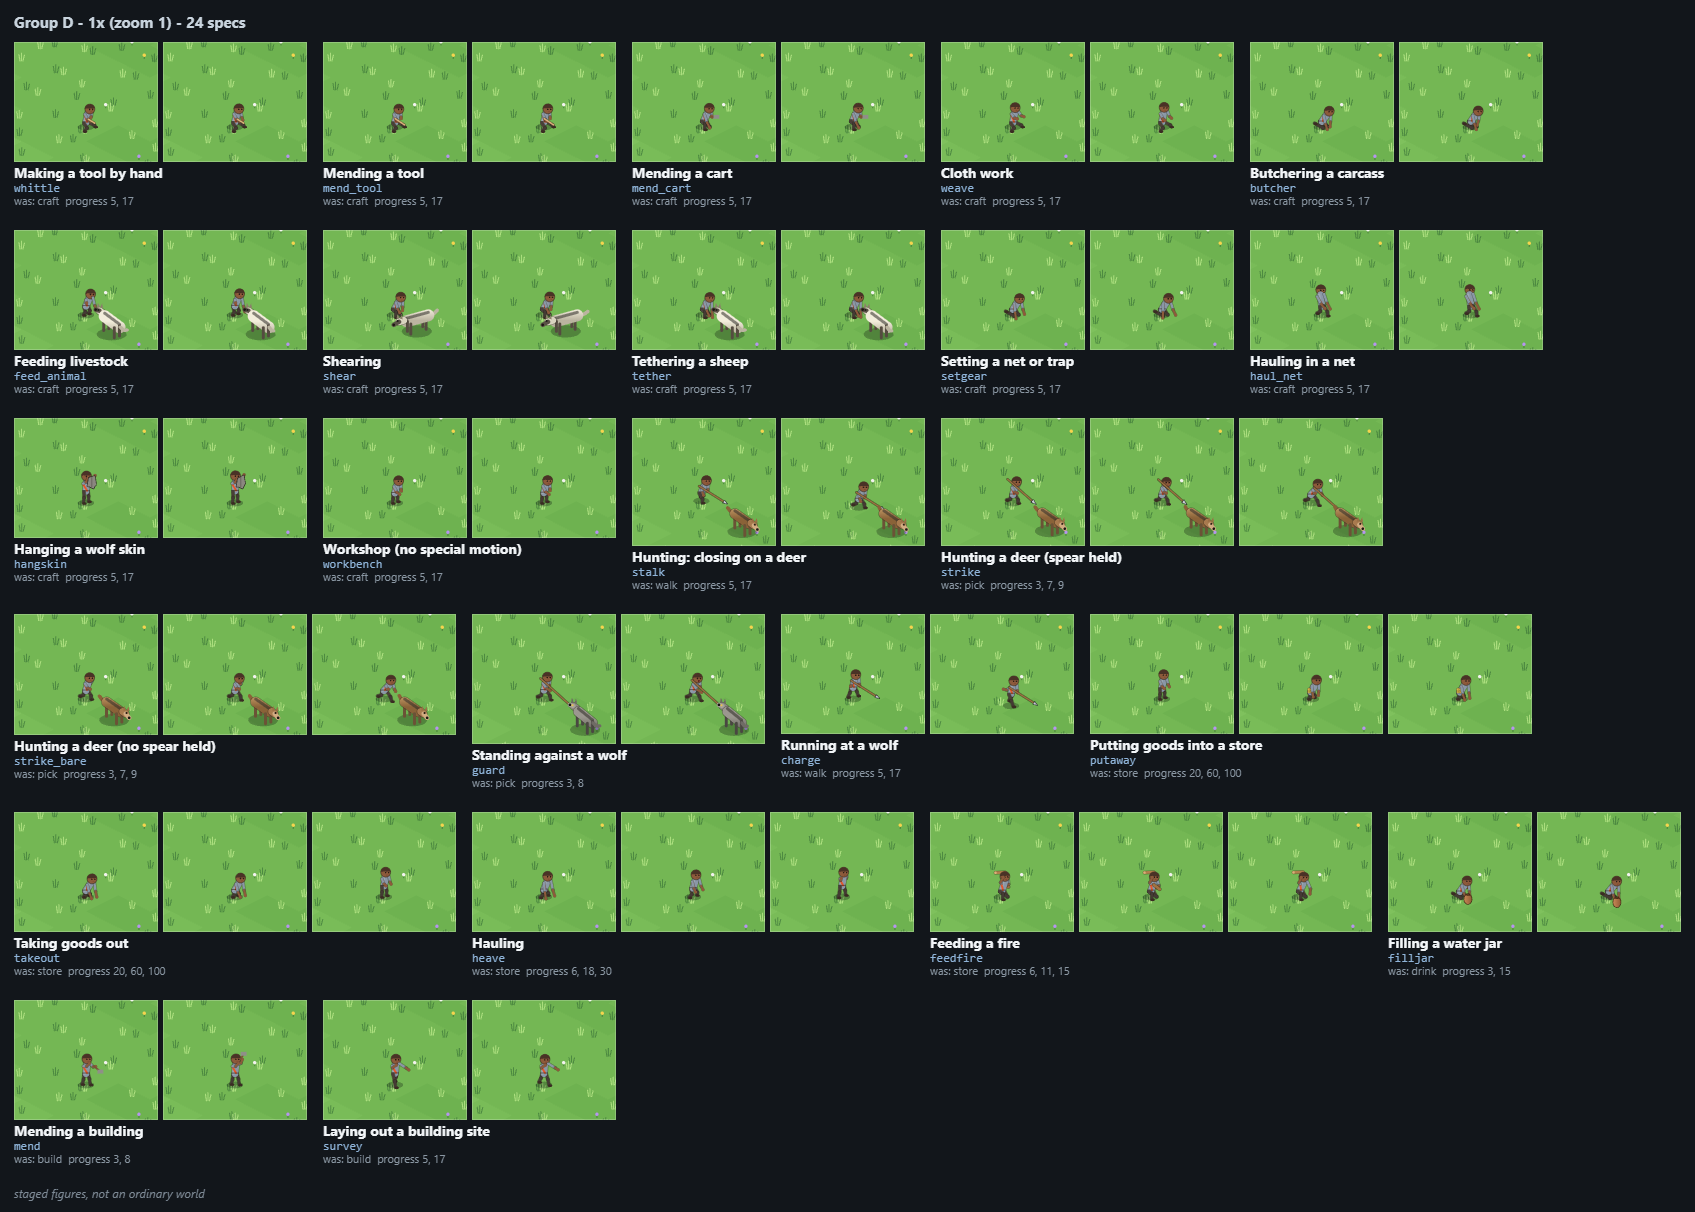
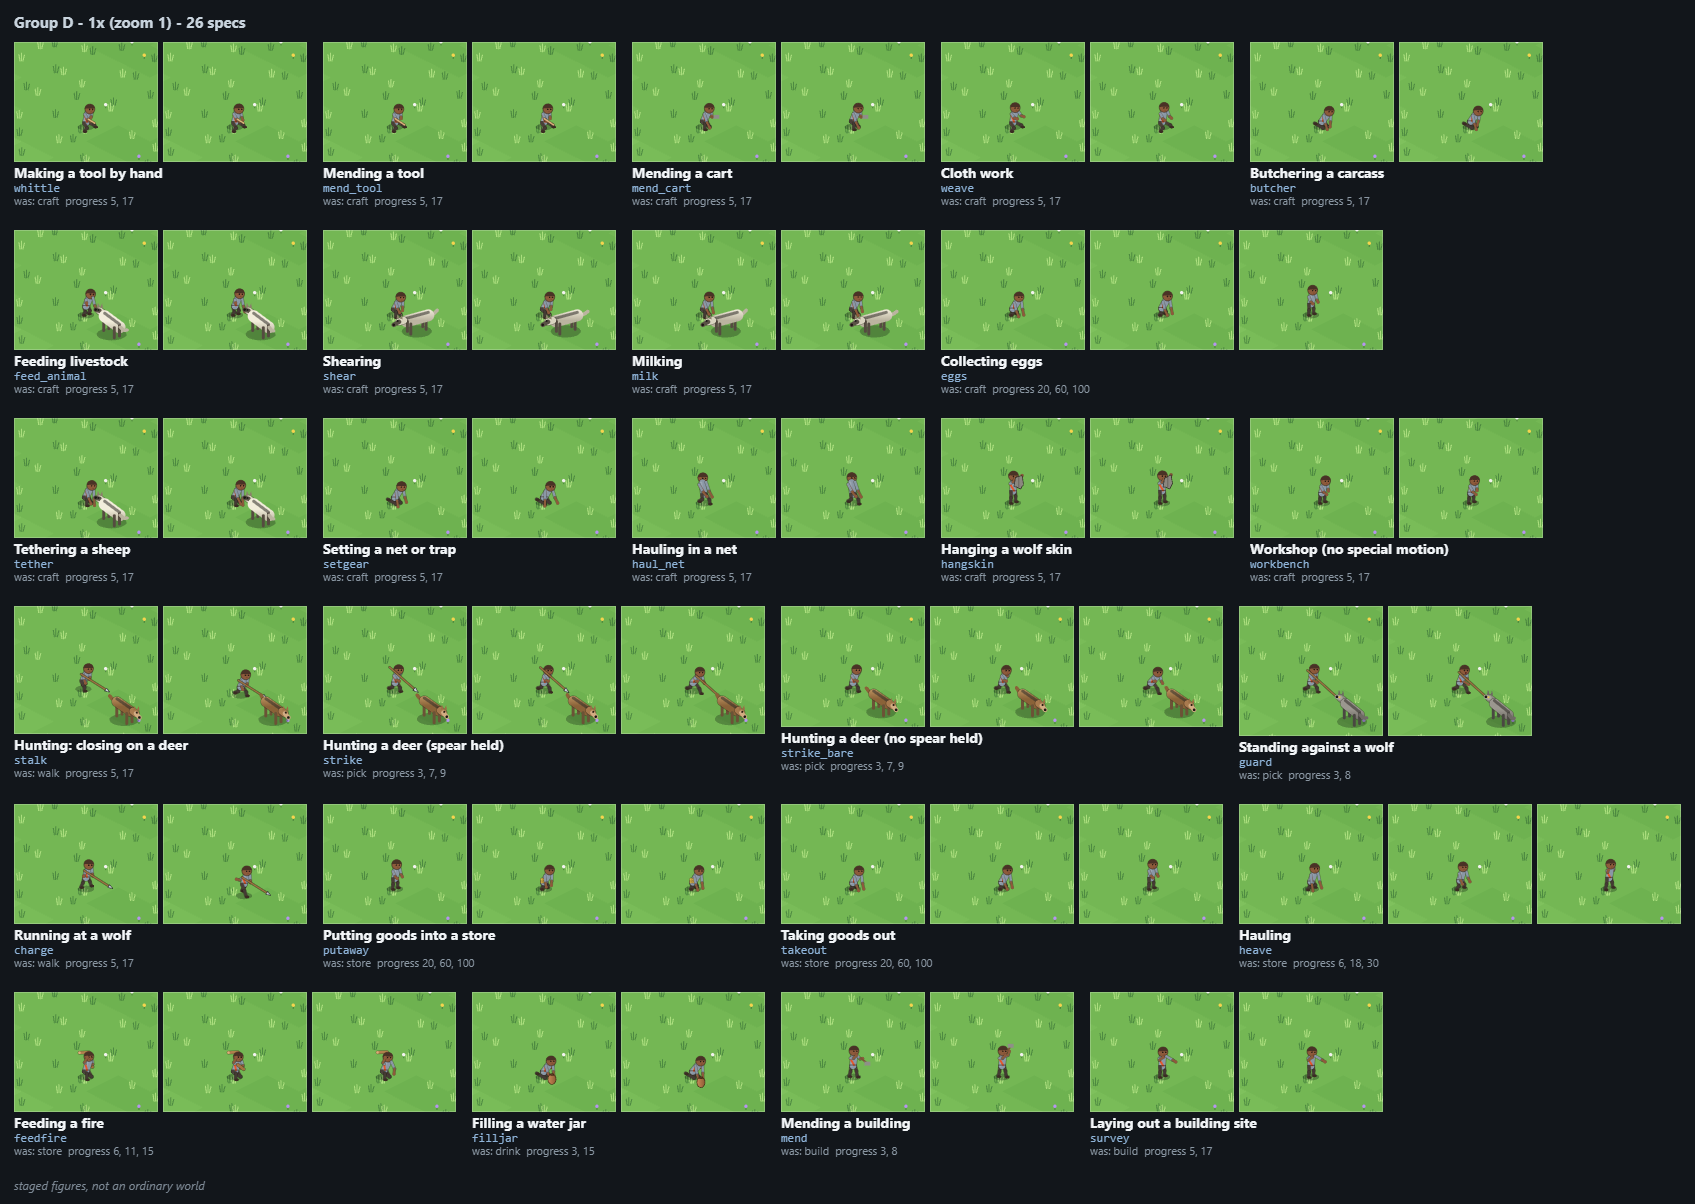
Character animations: the new livestock work, and the sheets redone on the merged main
Rebased onto main after the livestock merge (rules 266 to 277). animal_work now has
more operations, so each gets a look from what is already drawn: hay feeding as
feeding, eggs as reaching in and lifting out, mixing feed at a bench, mending a pen
as low mending, and milking as a new animation (on a knee, both hands pulling down
in turn). Bringing in, housing and mating stay as the hand-on-the-animal tether.

Contact sheets regenerated from this state, so they show the chase and site-layout
change as well. Presentation only: nothing under src/sim is touched.

diff --git a/src/render/animation.ts b/src/render/animation.ts
@@ -21,7 +21,7 @@ export type AnimId =
   // seated (C)
   | 'rest' | 'warm' | 'alone' | 'meal_sit' | 'meal_eat' | 'vigil' | 'lyingin' | 'comfort' | 'settle' | 'standup'
   // work (D)
-  | 'whittle' | 'mend_tool' | 'mend_cart' | 'weave' | 'butcher' | 'feed_animal' | 'shear' | 'tether' | 'setgear' | 'haul_net' | 'hangskin'
+  | 'whittle' | 'mend_tool' | 'mend_cart' | 'weave' | 'butcher' | 'feed_animal' | 'shear' | 'milk' | 'tether' | 'setgear' | 'haul_net' | 'hangskin'
   | 'workbench' | 'stalk' | 'strike' | 'guard' | 'charge' | 'putaway' | 'takeout' | 'heave' | 'feedfire' | 'filljar' | 'mend' | 'survey'
   // talk (E)
   | 'talk_warn' | 'alarmed' | 'teach' | 'learn' | 'ask_court' | 'demure' | 'welcome' | 'rally' | 'peace'
@@ -224,7 +224,16 @@ export function animationOf(world: World, p: Person, pose: PoseKind, conv: Conve
     case 'animal_work': {
       if (pose !== 'craft') return pose;
       const op = d.op as string | undefined;
-      return op === 'feed' || op === 'water' ? 'feed_animal' : op === 'shear' ? 'shear' : op === 'slaughter' ? 'butcher' : 'tether';
+      switch (op) {
+        case 'feed': case 'water': case 'hay_feed': return 'feed_animal';
+        case 'shear': return 'shear';
+        case 'milk': return 'milk';
+        case 'egg': return 'takeout';
+        case 'slaughter': return 'butcher';
+        case 'mix_feed': return 'workbench';
+        case 'repair': return 'mend_cart';
+        default: return 'tether'; // acquire, house, mate: a hand on the animal, tying or leading it
+      }
     }
     case 'gear_work': {
       if (pose !== 'craft') return pose;

diff --git a/tests/animation_choice.test.ts b/tests/animation_choice.test.ts
@@ -69,6 +69,12 @@ describe('the animation is chosen from the activity the person is in', () => {
     ['butchering', 'craft', 'butcher', {}, 'work', 'butcher'],
     ['feeding livestock', 'craft', 'animal_work', { op: 'feed' }, 'work', 'feed_animal'],
     ['shearing', 'craft', 'animal_work', { op: 'shear' }, 'work', 'shear'],
+    ['milking', 'craft', 'animal_work', { op: 'milk' }, 'work', 'milk'],
+    ['collecting eggs', 'craft', 'animal_work', { op: 'egg' }, 'work', 'takeout'],
+    ['feeding hay', 'craft', 'animal_work', { op: 'hay_feed' }, 'work', 'feed_animal'],
+    ['mixing feed', 'craft', 'animal_work', { op: 'mix_feed' }, 'work', 'workbench'],
+    ['mending a pen', 'craft', 'animal_work', { op: 'repair' }, 'work', 'mend_cart'],
+    ['housing an animal', 'craft', 'animal_work', { op: 'house' }, 'work', 'tether'],
     ['tethering', 'craft', 'animal_work', { op: 'acquire' }, 'work', 'tether'],
     ['setting a net', 'craft', 'gear_work', { op: 'place' }, 'work', 'setgear'],
     ['hauling a net in', 'craft', 'gear_work', { op: 'retrieve' }, 'work', 'haul_net'],

diff --git a/src/render/anim_rig.ts b/src/render/anim_rig.ts
@@ -562,6 +562,15 @@ export function animRig(anim: AnimId, pose: PoseKind, c: PoseCtx, r: Rig, base: 
       H(0.3, 0.07, Z(8), 0.18 + 0.14 * tri, -0.04, Z(8.6 + Math.sin(k * 3 * TAU) * 0.9));
       break;
     }
+    case 'milk': {
+      // down on a knee beside the animal, both hands low and forward, pulling down in turn
+      kneel(false, 4.6, 0.16);
+      const k = pr(10) * TAU;
+      r[R.HEAD_U] = 0.05;
+      r[R.HEAD_Z] = -0.6;
+      H(0.3, 0.06, Z(6.2 + 1.3 * Math.sin(k)), 0.3, -0.06, Z(6.2 - 1.3 * Math.sin(k)));
+      break;
+    }
     case 'tether': {
       // down on a knee tying at the ground
       kneel(false, 4.6, 0.17);

diff --git a/docs/CHARACTER_ANIMATIONS.md b/docs/CHARACTER_ANIMATIONS.md
@@ -62,7 +62,7 @@ drawn alike, and the list at the end says which.
 | craft | Making a tool by hand | `craft` | `whittle`: seated, the piece in the lap, short strokes |
 | craft | Mending a tool, a cart, cloth work | `tool_work` (`cartId`, `textile`) | `mend_tool`, `mend_cart`, `weave` |
 | craft | Butchering | `butcher`; `animal_work` op `slaughter` | `butcher`: on both knees, one hand holding, one cutting |
-| craft | Tending livestock | `animal_work` by `data.op` | `feed_animal` (feed, water), `shear`, `tether` (the rest) |
+| craft | Tending livestock | `animal_work` by `data.op` | `feed_animal` (feed, water, hay), `shear`, `milk` (on a knee, both hands pulling down in turn), `takeout` for eggs (down and in, up to the chest), `workbench` for mixing feed, `mend_cart` for mending a pen, `tether` (bringing in, housing, mating) |
 | craft | Setting a net or trap | `gear_work` by `data.op` | `setgear` (place, reset, repair), `haul_net` (check, retrieve) |
 | craft | Hanging a wolf skin | `hang_skin` | `hangskin`: stretched up, both hands high, the skin between them |
 | craft | Workshop with no motion of its own | `operate`, pose `craft` | `workbench`: both hands working at bench height, no hammer |
